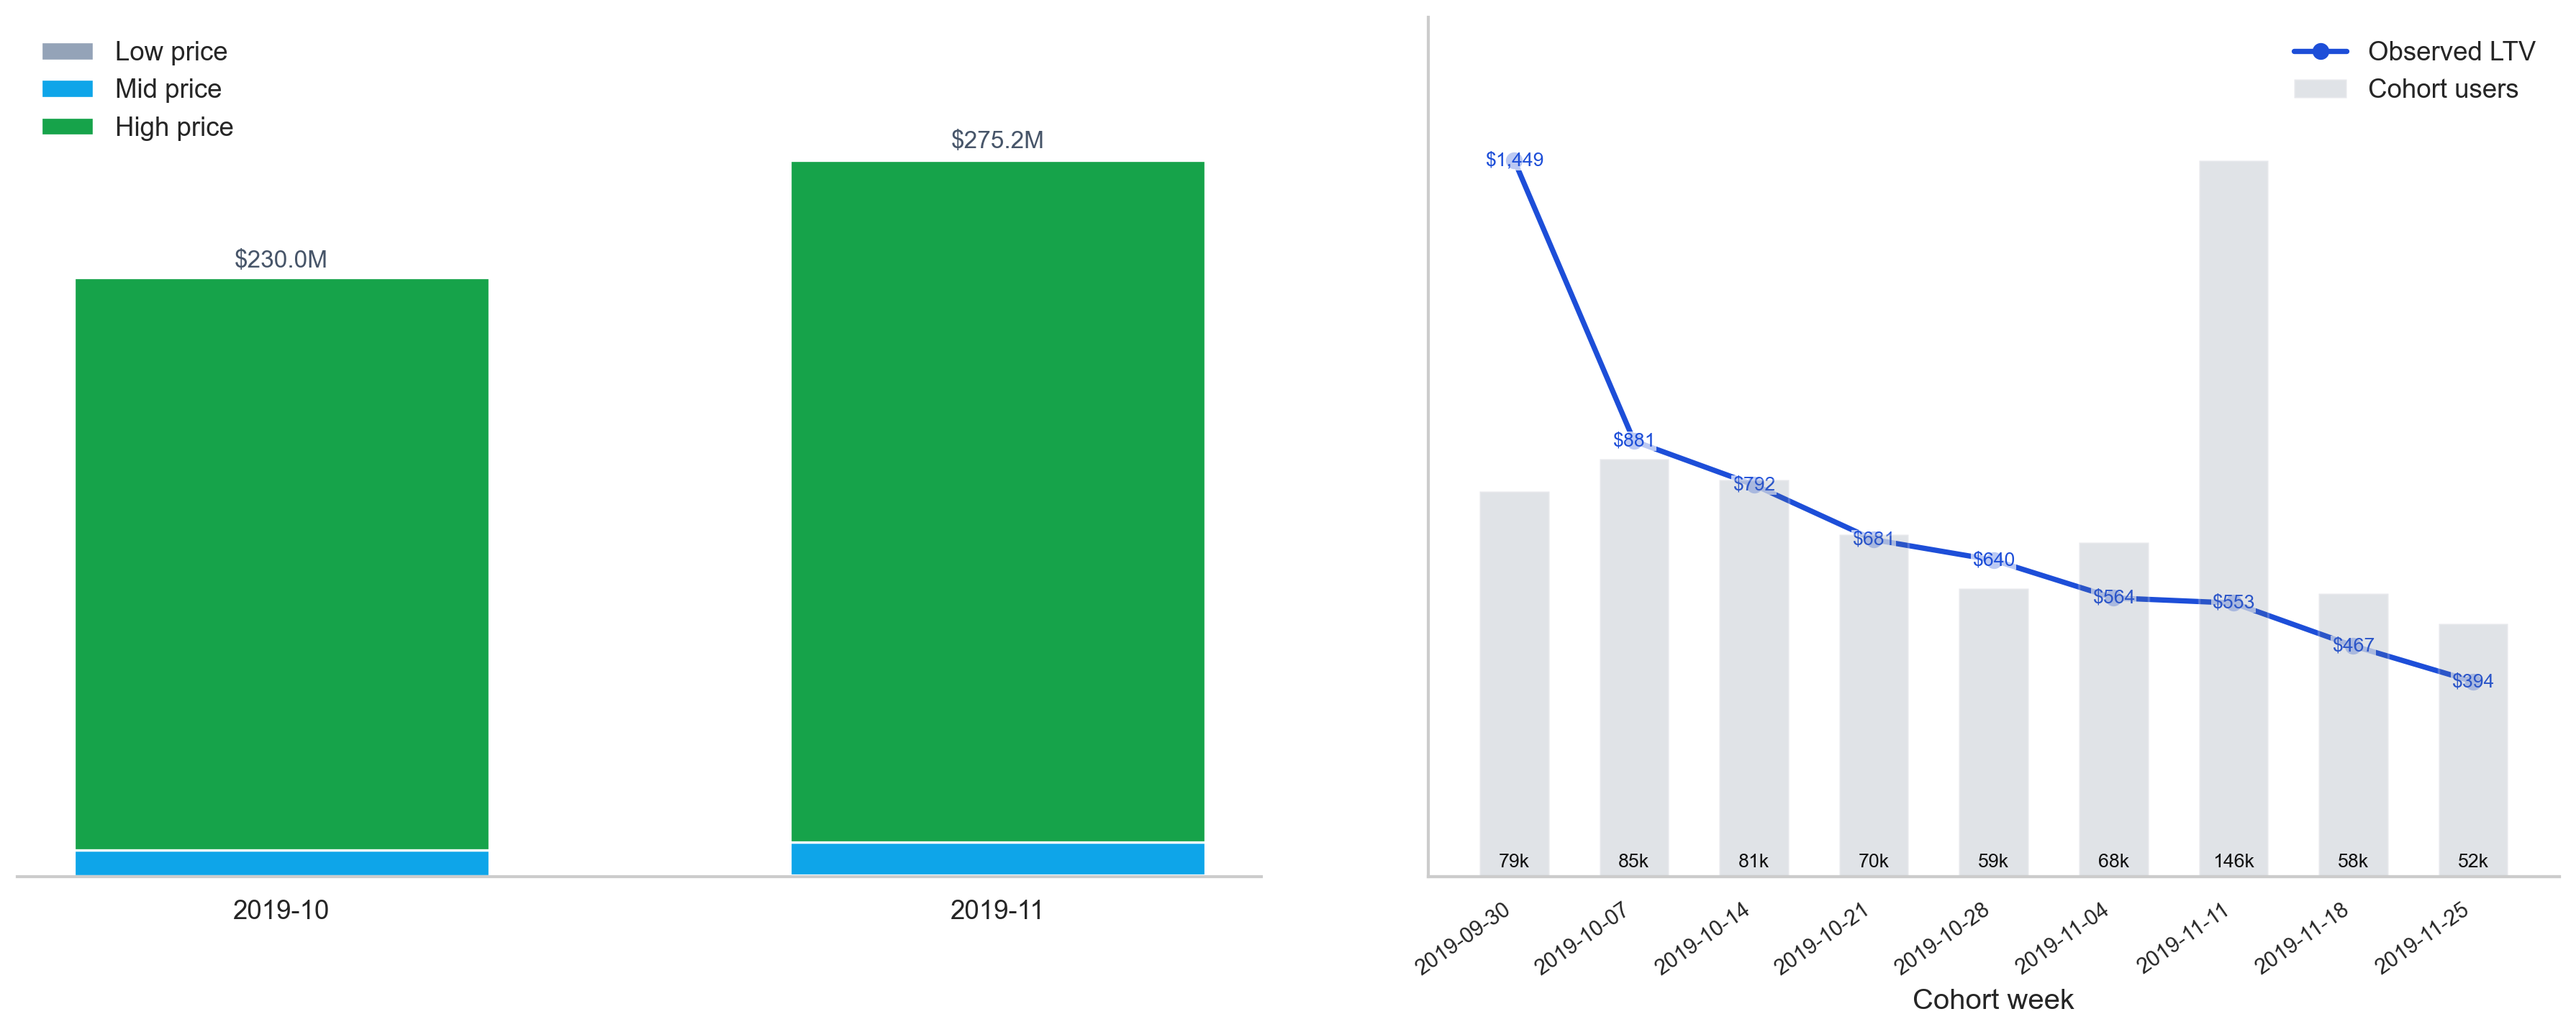
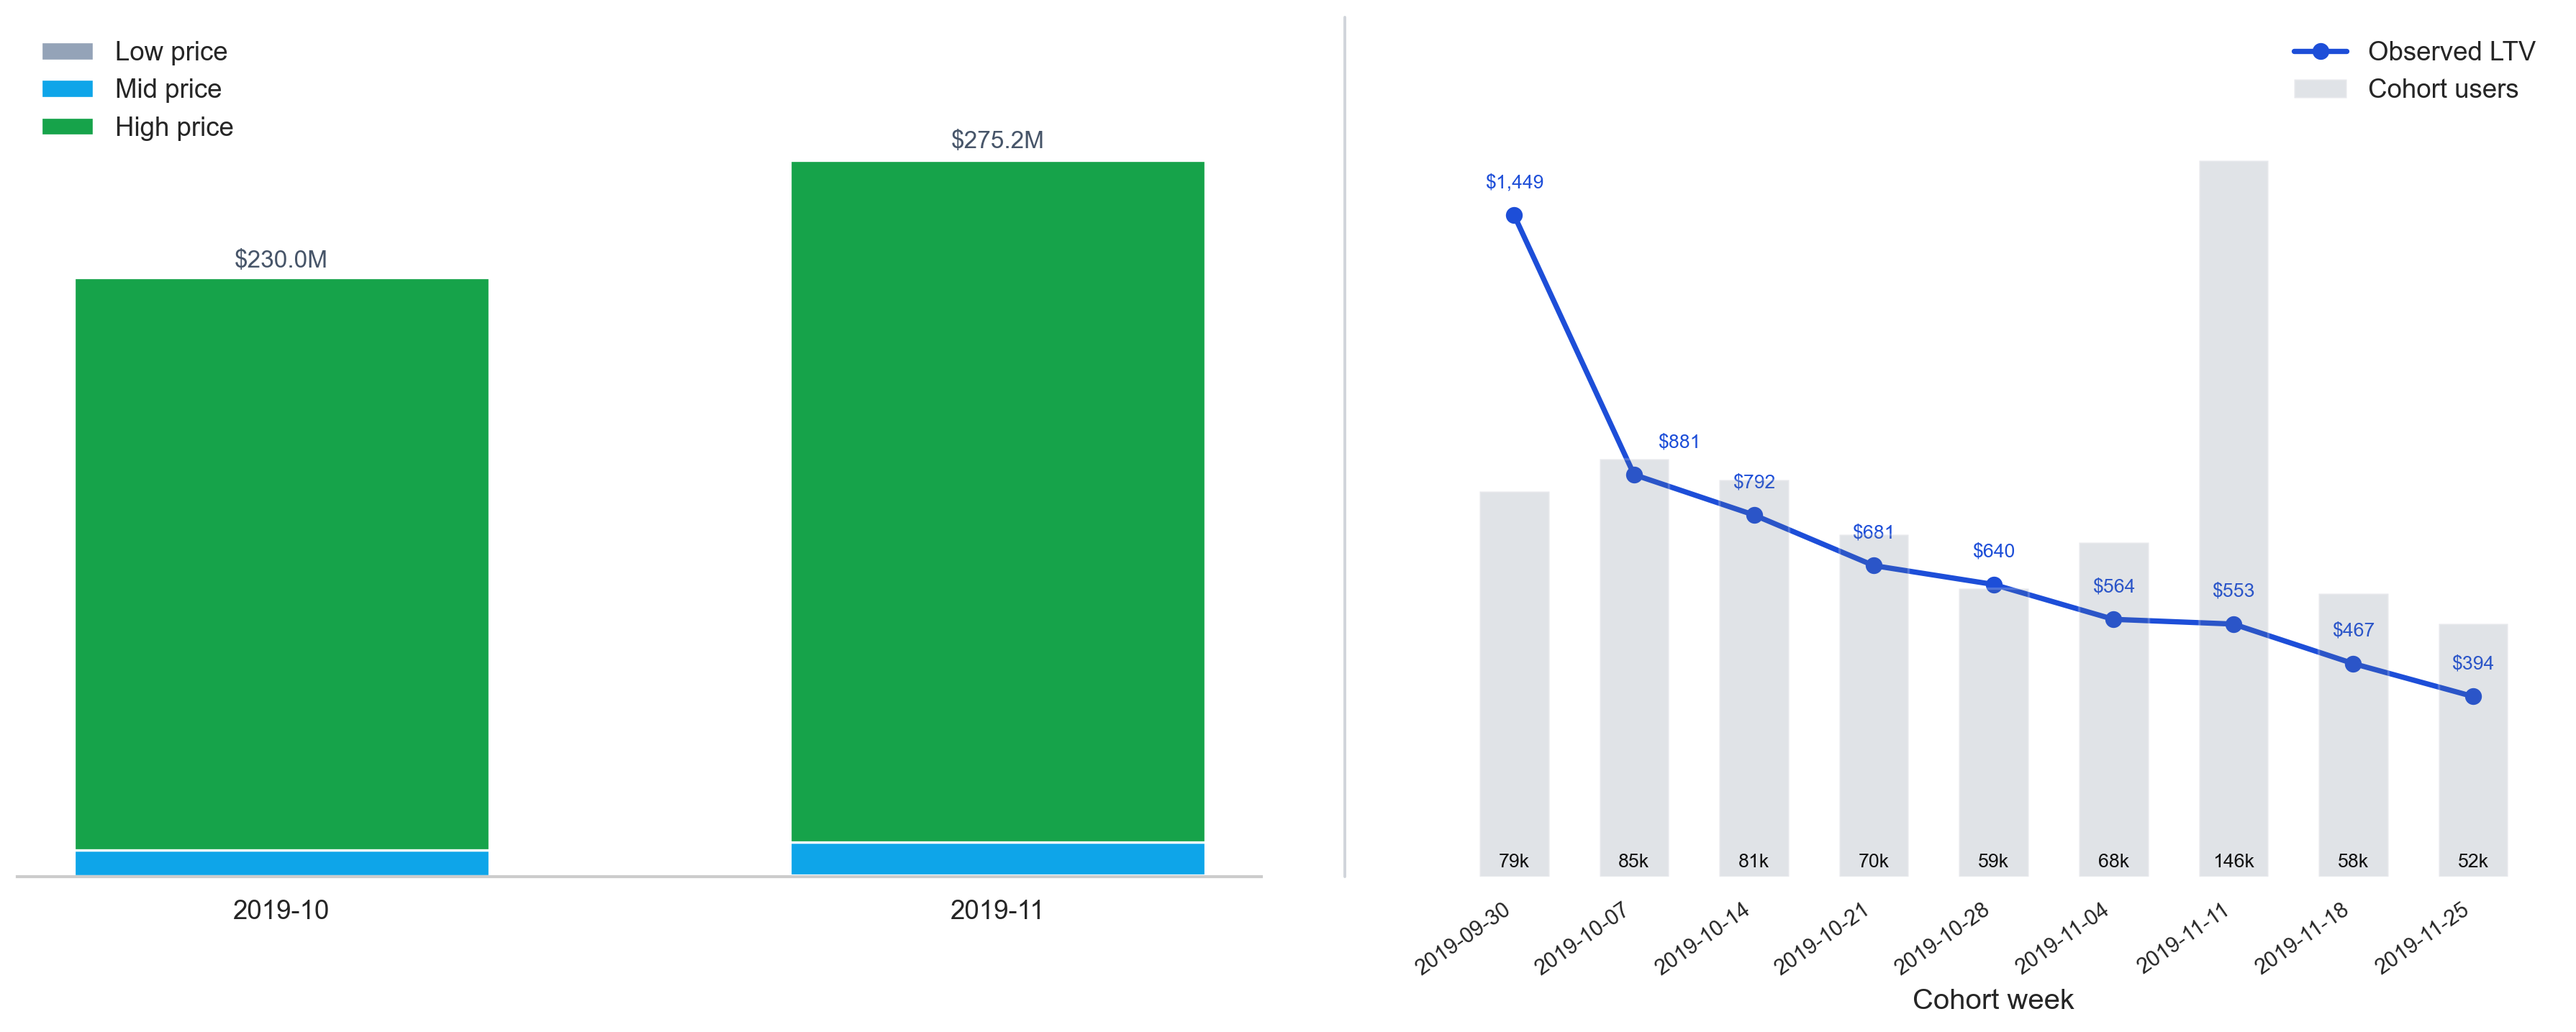
Refine chart readability and annotation placement

Changed region(s): [[0.6201, 0.3679, 0.9612, 0.6746], [0.5581, 0.1533, 0.6201, 0.3373]]

diff --git a/generate_portfolio_assets.py b/generate_portfolio_assets.py
@@ -10,6 +10,7 @@ import matplotlib
 import numpy as np
 import pandas as pd
 import seaborn as sns
+from matplotlib.lines import Line2D
 from matplotlib.ticker import FuncFormatter
 
 
@@ -26,6 +27,24 @@ SLATE = "#64748B"
 GREEN = "#059669"
 ORANGE = "#EA580C"
 TEAL = "#0F766E"
+
+
+def add_panel_divider(fig: plt.Figure, left_ax: plt.Axes, right_ax: plt.Axes) -> None:
+    left_pos = left_ax.get_position()
+    right_pos = right_ax.get_position()
+    x_div = (left_pos.x1 + right_pos.x0) / 2
+    y0 = min(left_pos.y0, right_pos.y0)
+    y1 = max(left_pos.y1, right_pos.y1)
+    fig.add_artist(
+        Line2D(
+            [x_div, x_div],
+            [y0, y1],
+            transform=fig.transFigure,
+            color="#D1D5DB",
+            linewidth=1.2,
+            zorder=10,
+        )
+    )
 
 
 def find_repo_root(start: Path) -> Path:
@@ -325,6 +344,7 @@ def save_funnel_chart(funnel: pd.DataFrame, _tracking_gap: pd.DataFrame, out_pat
         )
 
     fig.subplots_adjust(left=0.06, right=0.98, bottom=0.12, top=0.95, wspace=0.14)
+    add_panel_divider(fig, ax_rates, ax_volumes)
     fig.savefig(out_path, bbox_inches="tight")
     plt.close(fig)
 
@@ -419,17 +439,20 @@ def save_retention_chart(retention: pd.DataFrame, out_path: Path, dpi: int) -> N
 
     if not avg_curve.empty:
         last = avg_curve.iloc[-1]
-        ax_curve.annotate(
-            f"avg {pct(float(last['retention_rate']))}",
-            (float(last["week_number"]), float(last["retention_rate"])),
-            textcoords="offset points",
-            xytext=(10, 8),
+        ax_curve.text(
+            0.73,
+            0.74,
+            f"Avg (wk 6): {pct(float(last['retention_rate']))}",
+            transform=ax_curve.transAxes,
             ha="left",
-            fontsize=8,
+            va="center",
+            fontsize=9,
             color=TEAL,
+            bbox={"boxstyle": "round,pad=0.28", "fc": "#ECFDF5", "ec": "#99F6E4", "lw": 1.0},
         )
 
     fig.subplots_adjust(left=0.06, right=0.98, bottom=0.12, top=0.95, wspace=0.14)
+    add_panel_divider(fig, ax_heatmap, ax_curve)
     fig.savefig(out_path, bbox_inches="tight")
     plt.close(fig)
 
@@ -499,21 +522,23 @@ def save_revenue_chart(revenue: pd.DataFrame, ltv: pd.DataFrame, out_path: Path,
     ax_ltv.spines["top"].set_visible(False)
     ax_ltv.spines["right"].set_visible(False)
     ax_ltv.spines["left"].set_visible(False)
+    ax_ltv.spines["bottom"].set_visible(False)
     ax_ltv.set_xticks(x_ltv)
     ax_ltv.set_xticklabels(ltv["cohort_label"], rotation=35, ha="right", fontsize=9)
     ltv_max = float(ltv["observed_ltv"].max())
-    ax_ltv.set_ylim(0, ltv_max * 1.2)
+    ax_ltv.set_ylim(0, ltv_max * 1.3)
     for i, y in enumerate(ltv["observed_ltv"]):
+        x_offset = 10 if i == 1 else 0
+        text_ha = "left" if i == 1 else "center"
         ax_ltv.annotate(
             f"${float(y):,.0f}",
             (x_ltv[i], float(y)),
             textcoords="offset points",
-            xytext=(0, 0),
-            ha="center",
-            va="center",
+            xytext=(x_offset, 10),
+            ha=text_ha,
+            va="bottom",
             fontsize=8,
             color=BLUE,
-            bbox={"facecolor": "white", "edgecolor": "none", "alpha": 0.7, "pad": 0.5},
         )
 
     ax_users = ax_ltv.twinx()
@@ -541,12 +566,15 @@ def save_revenue_chart(revenue: pd.DataFrame, ltv: pd.DataFrame, out_path: Path,
         )
     ax_users.spines["top"].set_visible(False)
     ax_users.spines["right"].set_visible(False)
+    ax_users.spines["left"].set_visible(False)
+    ax_users.spines["bottom"].set_visible(False)
 
     ltv_handles, ltv_labels = ax_ltv.get_legend_handles_labels()
     users_handles, users_labels = ax_users.get_legend_handles_labels()
     ax_ltv.legend(ltv_handles + users_handles, ltv_labels + users_labels, frameon=False, loc="upper right")
 
     fig.subplots_adjust(left=0.06, right=0.98, bottom=0.12, top=0.95, wspace=0.14)
+    add_panel_divider(fig, ax_mix, ax_ltv)
     fig.savefig(out_path, bbox_inches="tight")
     plt.close(fig)
 
